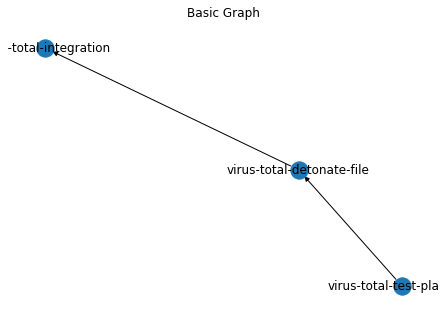
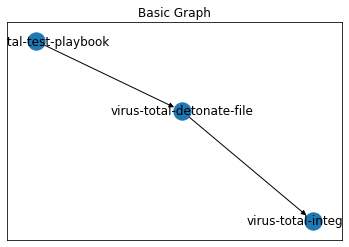
added poc

Changed region(s): [[0.0, 0.0283, 1.0, 0.9636], [0.0287, 0.9636, 0.9742, 0.9919], [0.6877, 0.6518, 0.7163, 0.6802]]

diff --git a/README.md b/README.md
@@ -21,14 +21,15 @@
 
 To generate the readme:
 
+```shell
+jupyter nbconvert --ClearMetadataPreprocessor.enabled=True --ClearOutput.enabled=True --to markdown README.ipynb
+```
 
 
 
 
 ```python
 import networkx as nx
-from IPython.display import display
-from IPython.core.display import HTML
 import pylab as plt
 
 graph = nx.DiGraph()
@@ -38,27 +39,16 @@ vt_tpbook = 'virus-total-test-playbook'
 graph.add_nodes_from([vt_integration, vt_pbook, vt_tpbook])
 graph.add_edge(vt_tpbook, vt_pbook)
 graph.add_edge(vt_pbook, vt_integration)
-nx.write_graphml(graph, 'dependency.graphml')
-with open('dependency.graphml') as f:
-    display(HTML(f.read()))
-# nx.draw_networkx(graph)
-# plt.title('Basic Graph')
-# plt.show()
+nx.draw_networkx(graph)
+plt.title('Basic Graph')
+plt.show()
 
 ```
 
 
-    ---------------------------------------------------------------------------
-
-    NameError                                 Traceback (most recent call last)
-
-    /Users/bhochman/dev/networkx-poc/README.ipynb Cell 2' in <cell line: 12>()
-         <a href='vscode-notebook-cell:/Users/bhochman/dev/networkx-poc/README.ipynb#ch0000001?line=10'>11</a> nx.write_graphml(graph, 'dependency.graphml')
-         <a href='vscode-notebook-cell:/Users/bhochman/dev/networkx-poc/README.ipynb#ch0000001?line=11'>12</a> with open('dependency.graphml') as f:
-    ---> <a href='vscode-notebook-cell:/Users/bhochman/dev/networkx-poc/README.ipynb#ch0000001?line=12'>13</a>     display(HTML(f.read()))
-
-
-    NameError: name 'HTML' is not defined
+    
+![png](README_files/README_1_0.png)
+    
 
 
 
@@ -130,7 +120,7 @@ graph_with_cycles.add_edges_from([(1, 2), (2, 3), (3, 1), (4, 5)])
 plt.title('graph with cycles')
 nx.draw_networkx(graph_with_cycles)
 plt.show()
-f'Cycles found: {nx.find_cycle(graph_with_cycles)}'
+print(f'Cycles found: {nx.find_cycle(graph_with_cycles)}')
 ```
 
 
@@ -139,9 +129,36 @@ f'Cycles found: {nx.find_cycle(graph_with_cycles)}'
     
 
 
+    Cycles found: [(1, 2), (2, 3), (3, 1)]
 
 
+## Example of writing/reading networkx
 
-    'Cycles found: [(1, 2), (2, 3), (3, 1)]'
 
+```python
+import time
+import tempfile
+with tempfile.NamedTemporaryFile() as pickled_file:
+    f.name
+    write_t = time.perf_counter()
+    nx.write_gpickle(graph, pickled_file.name)
+    write_speed = time.perf_counter() - write_t
+    read_t = time.perf_counter()
+    loaded = nx.read_gpickle(pickled_file.name)
+    read_speed = read_t - time.perf_counter()
+nx.draw_networkx(loaded)
+plt.title(f'write/read with pickle')
+plt.show()
+print(f'{write_speed=}')
+print(f'{read_speed=}')
+```
+
+
+    
+![png](README_files/README_8_0.png)
+    
+
+
+    write_speed=0.0002606670022942126
+    read_speed=-0.00035983300767838955
 
